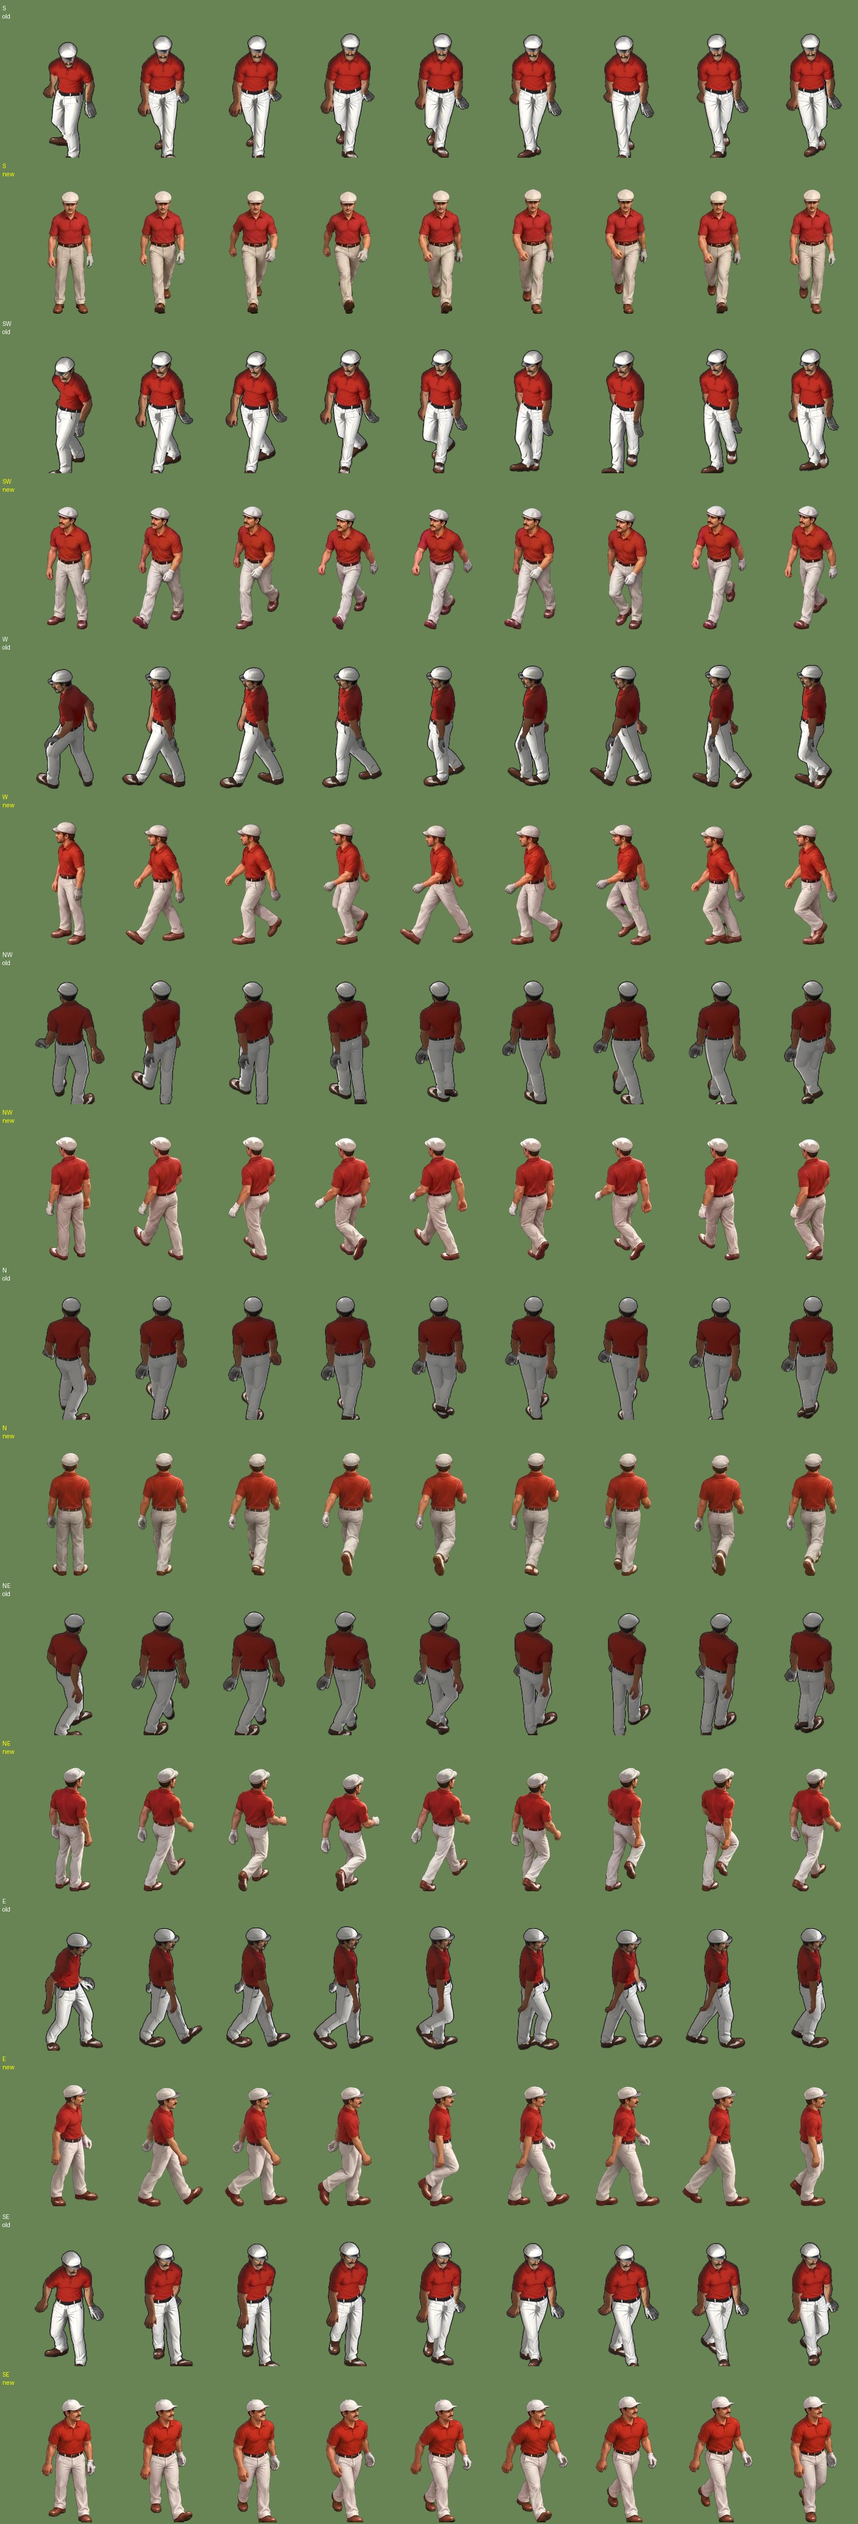
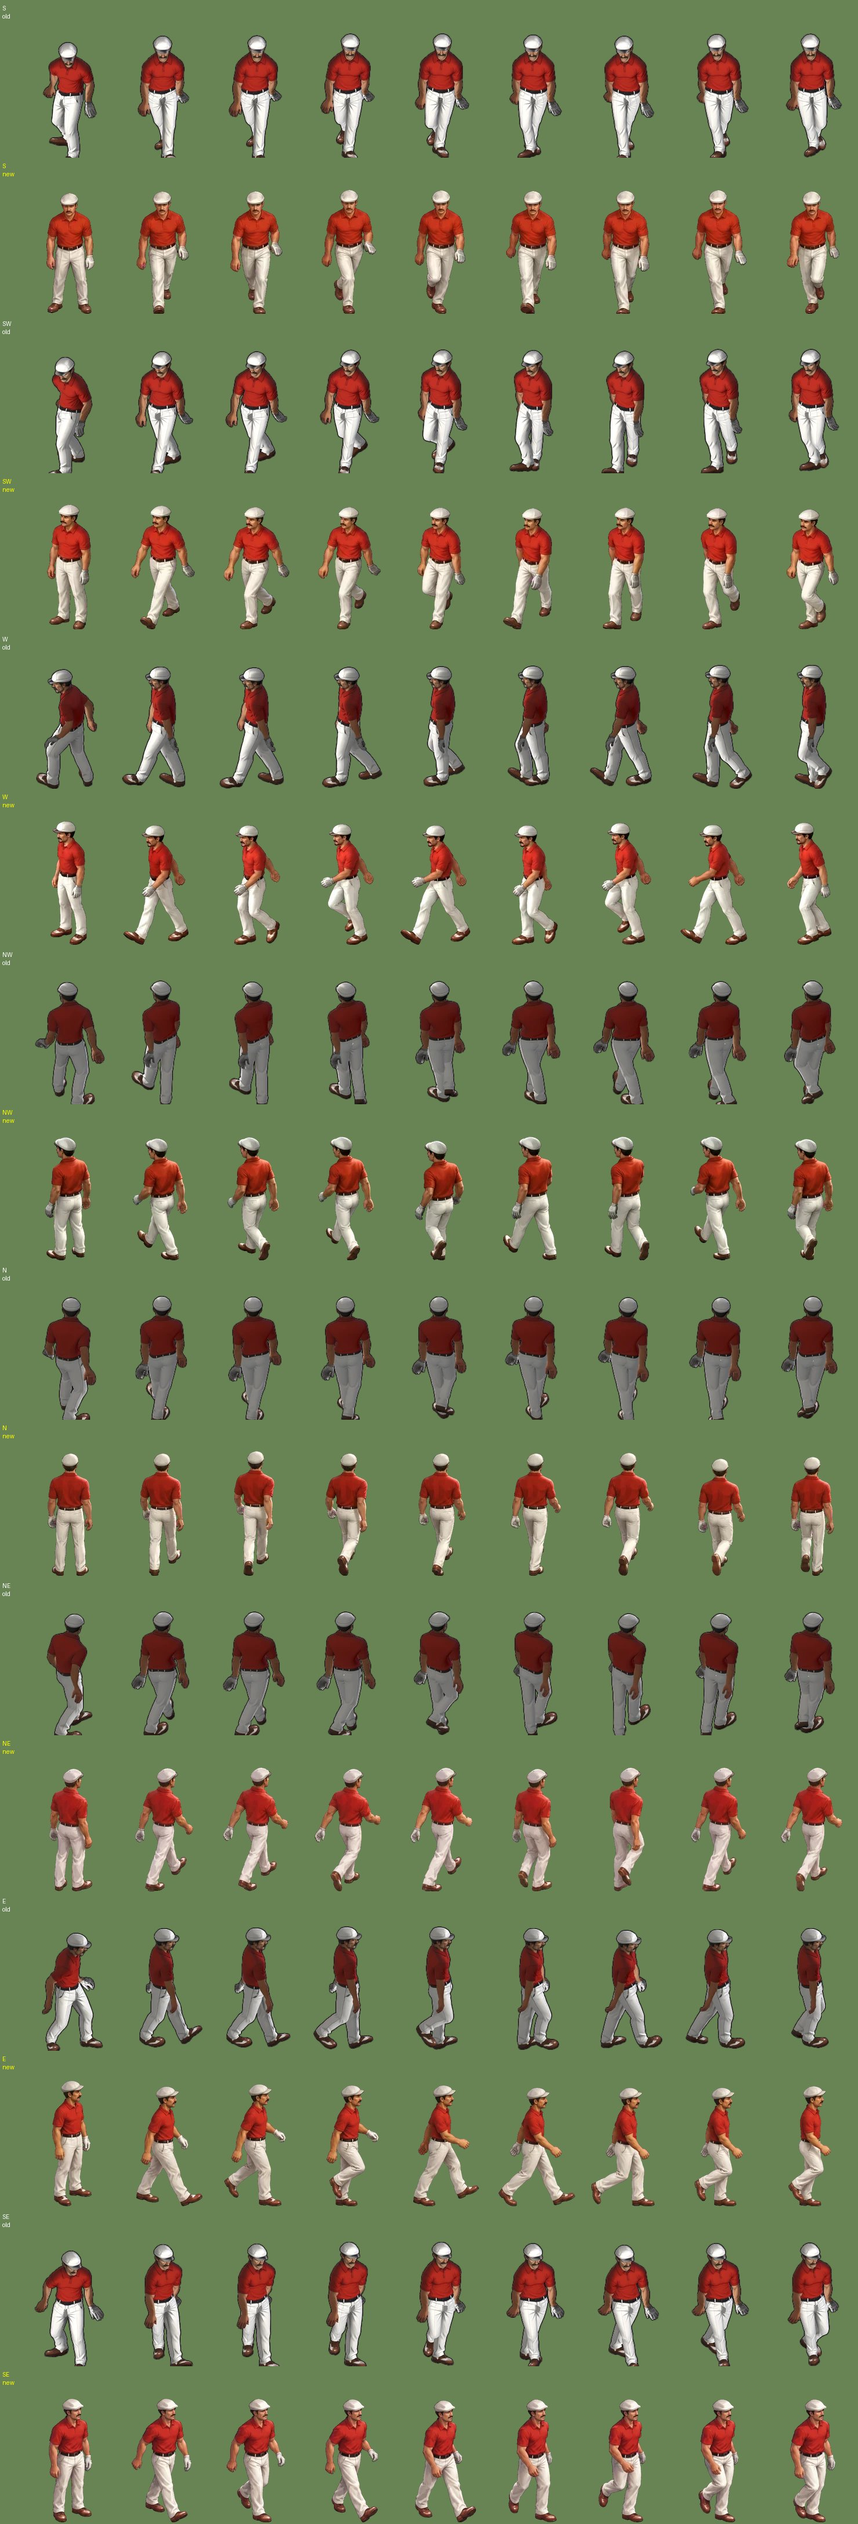
[#1235] golf_pro_m3 re-run: white trousers (batch 2's came out beige); golfer_pack.py/import_golfer.py: the clip sheets (golf_drive 4x3, golf_putt 4x2)
The re-run used golfer_pack.py --note (the trousers pure off-white). The clips: one landscape picture per golfer, clip and heading; the guide is
the old frames cropped to the swing's reach; the importer scales by the address/takeaway/impact heights and stands each frame on its old
frame's feet with its body over the old frame's, so the game's clip timing is unchanged; <clip>-old.webp/json kept.

diff --git a/scripts/assets/golfers/golfer_pack.py b/scripts/assets/golfers/golfer_pack.py
@@ -34,10 +34,13 @@ FACING = {
 # flat key colours for the background, picked per golfer as the one farthest from its clothes and skin
 KEYS = {'magenta': ((255, 0, 255), '#FF00FF'), 'green': ((0, 177, 64), '#00B140'), 'blue': ((40, 90, 220), '#285ADC')}
 GRID, CELL, K, FEET = 1024, 1024 // 3, 1.15, 315   # the guide: 3x3 cells of 341 px, the current frames at 1.15x, feet 315 px down a cell
+# the clips (#1235, the owner 2026-11-14: "the animations too"): each its own picture per heading, on a landscape 1536 x 1024 grid; the sheet
+# (standing + walk) keeps the 3x3 square above. The guide crops each clip to its reach at that heading (all frames' union), so the figure is big
+CLIPS = {'sheet': (3, 3, 1024, 1024), 'golf_drive': (4, 3, 1536, 1024), 'golf_putt': (4, 2, 1536, 1024)}
 
 PROMPT = """Use only the two pictures attached to this message (ignore earlier pictures in this chat). Create an image: a 3x3 sprite sheet of one golfer for a painted isometric golf game.
 
-Reference 1 shows who the golfer is (rough 3D renders from the front, the side and the back): keep his face, hair, skin, build and his exact clothes and colours ({outfit}). Mid-1980s golf clothes, no logos, no text.
+Reference 1 shows who the golfer is (him standing, from the front, the side and the back): keep his face, hair, skin, build and his exact clothes and colours ({outfit}). Mid-1980s golf clothes, no logos, no text.
 
 Reference 2 is the layout to paint over: nine cells, the golfer in each, all at the same heading: {facing}. Keep that heading, the camera, the size and the place of the figure in every cell exactly as reference 2 has them, and keep his feet on the same ground line in every cell. The renders' poses are only rough; paint these poses:
 - cell 1 (top left): standing still, relaxed and upright, weight on both feet a little apart, arms hanging loosely at his sides, head up looking ahead.
@@ -46,6 +49,43 @@ Reference 2 is the layout to paint over: nine cells, the golfer in each, all at 
 Style: a painterly isometric game sprite, soft brushwork, natural colours, clean readable shapes, no outline. Camera: orthographic, looking down at about 30 degrees, exactly as in reference 2, never mirrored. Light: one sun at the upper right of the picture: the parts of him facing the upper right lit, the far and lower parts gently shaded, no rim light, no glow.
 
 Background: one flat, even {keyname} colour ({key}) filling the whole picture and every gap (between the legs, between an arm and the body). No ground, no shadow on the ground, no grid lines, no borders, no text, no numbers."""
+
+CLIP_HEAD = """Use only the two pictures attached to this message (ignore earlier pictures in this chat). Create an image: a landscape {cols}x{rows} sprite sheet of one golfer for a painted isometric golf game.
+
+Reference 1 shows who the golfer is (him standing, from the front, the side and the back): keep his face, hair, skin, build and his exact clothes and colours ({outfit}). Mid-1980s golf clothes, no logos, no text.
+
+Reference 2 is the layout to paint over: {n} cells ({cols} across, {rows} down, read left to right then the next row), the golfer in each, all at the same heading: {facing}. Keep that heading, the camera, the size and the place of the figure in every cell exactly as reference 2 has them, his feet planted on the same spot of the same ground line in every cell (they do not move during the stroke), and keep each pose close to reference 2's (the renders are rough: paint them as a real golfer)."""
+CLIP_POSES = {
+    'golf_drive': """One full drive with a driver (a wooden-headed 1985 driver, a dark shaft, no ball, no tee), in order:
+1 address: knees flexed, back tilted, arms hanging, the club head on the ground behind where the ball would be;
+2 takeaway: the club swung back low, the shaft level with the ground;
+3 half-way back: the lead arm level, the club pointing up;
+4 near the top: the shoulders turned, the club over the back shoulder;
+5 the top: fully turned, the shaft about level behind his head;
+6 starting down: hips turning toward the target, the club still high;
+7 half-way down: the club level again, the wrists still cocked;
+8 impact: the club head at the ground where the ball was, arms straight;
+9 just after impact: both arms extended toward the target;
+10 follow-through: the club rising over the lead shoulder, the chest turned to the target;
+11 finish: high finish, belly facing the target, the back heel up on its toe;
+12 holding the finish, relaxed, the club over the shoulder.
+The swing is the same smooth motion through all twelve; the club is one straight shaft in every cell, never bent or doubled.""",
+    'golf_putt': """One putt with a putter (a 1985 blade putter, no ball), in order:
+1 address: bent over the ball spot, eyes down, the putter head on the ground, hands together;
+2 the putter starting back, low along the ground;
+3 the top of a short backstroke;
+4 the putter coming forward;
+5 impact: the putter head back at the ball spot;
+6 follow-through: the putter head forward past the ball spot, low;
+7 holding the follow-through, head still down;
+8 looking up after the ball, the putter still forward.
+Only the arms, shoulders and putter move; the body stays still, the feet planted.""",
+}
+CLIP_TAIL = """
+
+Style: a painterly isometric game sprite, soft brushwork, natural colours, clean readable shapes, no outline. Camera: orthographic, looking down at about 30 degrees, exactly as in reference 2, never mirrored. Light: one sun at the upper right of the picture: the parts of him facing the upper right lit, the far and lower parts gently shaded, no rim light, no glow.
+
+Background: one flat, even {keyname} colour ({key}) filling the whole picture and every gap (between the legs, between the arms and the club). No ground, no shadow on the ground, no grid lines, no borders, no text, no numbers. Each figure and its whole club inside its own cell, never crossing into the next."""
 
 CHECKS = """# Checks for {name} ({heading})
 - The same golfer as ref.png: face, hair, skin, shirt and trousers colours, shoes, glove. No logo, no text.
@@ -60,10 +100,12 @@ SHORT = {'S': 'the viewer', 'SW': 'the lower left', 'W': 'the left', 'NW': 'the 
          'NE': 'the upper right (from behind)', 'E': 'the right', 'SE': 'the lower right'}
 
 
-def frames(gid):
-    """the current sheet: frames[heading][column] as RGBA cells, and the sheet json"""
-    j = json.loads((ART / gid / 'sheet.json').read_text())
-    sheet = Image.open(ART / gid / 'sheet.webp').convert('RGBA'); fw, fh = j['frameWidth'], j['frameHeight']
+def frames(gid, clip='sheet'):
+    """the current sheet (or a clip sheet: golf_drive, golf_putt): frames[heading][column] as RGBA cells, and its json. A clip sheet that was
+    already imported reads its kept original (<clip>-old.webp), so a re-run is painted over the 3D renders, not over ChatGPT's last try"""
+    old = ART / gid / f'{clip}-old.webp'
+    j = json.loads((ART / gid / f'{clip}.json').read_text())
+    sheet = Image.open(old if clip != 'sheet' and old.exists() else ART / gid / f'{clip}.webp').convert('RGBA'); fw, fh = j['frameWidth'], j['frameHeight']
     out = {}
     for r, h in enumerate(j['directions']):
         out[h] = [sheet.crop((c * fw, r * fh, (c + 1) * fw, (r + 1) * fh)) for c in range(len(j['frames']))]
@@ -119,6 +161,25 @@ def guide_png(row, j, key, path):
     out.convert('RGB').save(path)
 
 
+def clip_guide_png(row, layout, key, path):
+    """a clip's guide: the frames of one heading in a cols x rows grid, cropped to their union (the reach of the swing) plus a margin and
+    scaled to fill a cell; returns the crop box and the scale (the importer does not need them: it measures)"""
+    cols, rows, W, H = layout; cw, ch = W // cols, H // rows
+    x0 = y0 = 10 ** 9; x1 = y1 = -1
+    for im in row:
+        bb = im.getbbox()
+        if bb: x0, y0, x1, y1 = min(x0, bb[0]), min(y0, bb[1]), max(x1, bb[2]), max(y1, bb[3])
+    m = 12; x0, y0, x1, y1 = max(0, x0 - m), max(0, y0 - m), x1 + m, y1 + m
+    k = min(cw / (x1 - x0), ch / (y1 - y0), 1.6)
+    out = Image.new('RGBA', (W, H), key + (255,))
+    for c, im in enumerate(row):
+        s = im.crop((x0, y0, x1, y1)); s = s.resize((round(s.width * k), round(s.height * k)), Image.LANCZOS)
+        cx, cy = (c % cols) * cw + (cw - s.width) // 2, (c // cols) * ch + (ch - s.height) // 2
+        out.alpha_composite(s, (cx, cy))
+    out.convert('RGB').save(path)
+    return (x0, y0, x1, y1), k
+
+
 def gender(text, gid):
     """the prompts say he/his/him; a woman golfer (golf_*_w*) gets she/her"""
     if '_w' not in gid: return text
@@ -131,6 +192,7 @@ def main():
     ap.add_argument('--golfer', nargs='*'); ap.add_argument('--heading', nargs='*', default=HEADINGS)
     ap.add_argument('--out', default='D:/AI/chatgpt-bridge/guides/golfers'); ap.add_argument('--bridge', default='D:/AI/chatgpt-bridge')
     ap.add_argument('--skip-done', action='store_true')
+    ap.add_argument('--clip', default='sheet', choices=list(CLIPS), help='sheet (standing + walk), golf_drive or golf_putt')
     ap.add_argument('--note', help='words added to the clothes line, e.g. "the trousers pure white, not beige or cream" (a re-run of a colour that drifted)')
     a = ap.parse_args()
     gids = a.golfer or sorted(d.name for d in ART.iterdir() if (d / 'sheet.json').exists())
@@ -138,15 +200,24 @@ def main():
     for gid in gids:
         cells, j = frames(gid)
         keyname = pick_key(cells); key, keyhex = KEYS[keyname]; wear = outfit(cells)
+        if a.clip != 'sheet':
+            ccells, cj = frames(gid, a.clip)
+            wear = 'exactly as in reference 1 (his painted standing pose: the clothes to copy)' + ('; ' + a.note if a.note else '')   # (the sampled colours misread shorts and skirts)
         if a.note: wear += '; ' + a.note
         (out / gid).mkdir(parents=True, exist_ok=True); ref = out / gid / 'ref.png'; ref_png(cells, ref)
         for h in a.heading:
-            name = f'{gid}~{h}'
+            name = f'{gid}~{h}' + ('' if a.clip == 'sheet' else f'~{a.clip}')
             if a.skip_done and (bridge / 'in' / f'{name}-golfers.png').exists(): continue
-            d = out / gid / h; d.mkdir(parents=True, exist_ok=True)
-            guide_png(cells[h], j, key, d / 'guide.png')
+            d = out / gid / h / ('' if a.clip == 'sheet' else a.clip); d.mkdir(parents=True, exist_ok=True)
             (d / 'ref.png').write_bytes(ref.read_bytes())
-            p = gender(PROMPT.format(outfit=wear, facing=FACING[h], keyname=keyname, key=keyhex), gid)
+            if a.clip == 'sheet':
+                guide_png(cells[h], j, key, d / 'guide.png')
+                p = gender(PROMPT.format(outfit=wear, facing=FACING[h], keyname=keyname, key=keyhex), gid)
+            else:
+                cols, rows, _, _ = CLIPS[a.clip]
+                clip_guide_png(ccells[h], CLIPS[a.clip], key, d / 'guide.png')
+                p = gender(CLIP_HEAD.format(cols=cols, rows=rows, n=cols * rows, outfit=wear, facing=FACING[h].replace('walking', 'his body facing')) + '\n\n' + CLIP_POSES[a.clip]
+                           + CLIP_TAIL.format(keyname=keyname, key=keyhex), gid)
             (d / 'PROMPT.md').write_text(p + '\n', encoding='utf-8')
             (d / 'CHECKS.md').write_text(CHECKS.format(name=name, heading=h, facing_short=SHORT[h], key=keyhex), encoding='utf-8')
             queue.append([name, (d / 'ref.png').as_posix(), (d / 'guide.png').as_posix(), p])

diff --git a/scripts/assets/golfers/import_golfer.py b/scripts/assets/golfers/import_golfer.py
@@ -20,7 +20,9 @@ from PIL import Image
 
 ROOT = Path(__file__).resolve().parents[3]
 ART = ROOT / 'art' / 'golfers'
-NAME = re.compile(r'^(golf_[a-z]+_[mw]\d+)~(S|SW|W|NW|N|NE|E|SE)-golfers\.png$')
+NAME = re.compile(r'^(golf_[a-z]+_[mw]\d+)~(S|SW|W|NW|N|NE|E|SE)(?:~(golf_drive|golf_putt))?-golfers\.png$')
+# the grid of each picture (golfer_pack.py CLIPS): columns, rows
+GRIDS = {'sheet': (3, 3), 'golf_drive': (4, 3), 'golf_putt': (4, 2)}
 GRASS = (104, 132, 84)
 
 
@@ -66,20 +68,22 @@ def components(mask):
         return lab, np.array(sizes)
 
 
-def figures(path, tol, soft):
-    """the nine figures of a 3x3 picture, in reading order: each an RGBA image cropped to its pieces"""
+def figures(path, tol, soft, grid=(3, 3)):
+    """the figures of a cols x rows picture (the sheet's 3x3, a clip's 4x3 or 4x2), in reading order: each an RGBA image cropped to its pieces
+    (a club's thin shaft may come apart from the hands: every piece goes to the cell its middle is in)"""
+    cols, rows = grid
     im = Image.open(path).convert('RGB'); rgb = np.asarray(im).astype(np.float32)
     fg, a, bg = key_out(rgb, tol, soft)
     h, w = a.shape
     lab, sizes = components(a > 0.5)
-    big = max(200, int(sizes[1:].max() * 0.004)) if len(sizes) > 1 else 200   # specks below this are noise
-    cells = [[] for _ in range(9)]
+    big = (max(200, int(sizes[1:].max() * 0.004)) if grid == (3, 3) else 60) if len(sizes) > 1 else 200   # specks below this are noise
+    cells = [[] for _ in range(cols * rows)]
     ys, xs = np.nonzero(lab)
     for k in range(1, len(sizes)):
         if sizes[k] < big: continue
         sel = lab == k; yy, xx = np.nonzero(sel)
         cy, cx = yy.mean(), xx.mean()
-        c = min(2, int(cy / (h / 3))) * 3 + min(2, int(cx / (w / 3)))
+        c = min(rows - 1, int(cy / (h / rows))) * cols + min(cols - 1, int(cx / (w / cols)))
         cells[c].append(k)
     out = []
     for c, ks in enumerate(cells):
@@ -108,9 +112,52 @@ def measure(im):
     return hgt, bot, cx
 
 
-def sheet_of(gid):
-    j = json.loads((ART / gid / 'sheet.json').read_text()); sheet = Image.open(ART / gid / 'sheet.webp').convert('RGBA')
+def sheet_of(gid, clip='sheet'):
+    j = json.loads((ART / gid / f'{clip}.json').read_text()); sheet = Image.open(ART / gid / f'{clip}.webp').convert('RGBA')
     return j, sheet
+
+
+def import_clip(path, gid, heading, clip, tol=60, soft=40, scale=None, dry=False, preview=None):
+    """a clip picture (golf_drive 4x3, golf_putt 4x2) into <clip>.webp's row: one scale for the row (the old and new address, takeaway
+    and impact frames' heights: the club at the ground in all three), then each frame stood on its old frame's lowest pixel with its body
+    over the old frame's body, so the game's timing and feet stay as they were. The first import keeps <clip>-old.webp/json"""
+    base = ART / gid
+    old_path = base / f'{clip}-old.webp'
+    j, sheet = sheet_of(gid, clip)
+    olds_sheet = Image.open(old_path).convert('RGBA') if old_path.exists() else sheet
+    fw, fh = j['frameWidth'], j['frameHeight']; n = len(j['frames'])
+    row = j['directions'].index(heading)
+    olds = [olds_sheet.crop((c * fw, row * fh, (c + 1) * fw, (row + 1) * fh)) for c in range(n)]
+    figs, bg = figures(path, tol, soft, GRIDS[clip])
+    figs = figs[:n]
+    probe = [0, 1, 7] if clip == 'golf_drive' else [0, 4]
+    k = scale or float(np.median([measure(olds[i])[0] / max(1, measure(figs[i])[0]) for i in probe]))
+    cells, over = [], []
+    for i, f in enumerate(figs):
+        s = f.resize((max(1, round(f.width * k)), max(1, round(f.height * k))), Image.LANCZOS)
+        _, bot, cx = measure(s); _, obot, ocx = measure(olds[i])
+        c = Image.new('RGBA', (fw, fh), (0, 0, 0, 0))
+        x, y = round(ocx - cx), round(min(obot, fh - 4) - bot)
+        c.paste(s, (x, y), s)
+        if x < 0 or y < 0 or x + s.width > fw or y + s.height > fh: over.append(i)
+        cells.append(c)
+    note = f'{path.name}: {gid} {heading} {clip} key {bg}, scale {k:.3f}' + (f', cut at the cell edge: frames {over}' if over else '')
+    print(note)
+    if preview:
+        pv = Image.new('RGBA', (fw * n, fh * 2), GRASS + (255,))
+        for c in range(n): pv.alpha_composite(olds[c], (c * fw, 0)); pv.alpha_composite(cells[c], (c * fw, fh))
+        pv.convert('RGB').save(preview)
+    if dry: return note
+    if not old_path.exists():
+        shutil.copyfile(base / f'{clip}.webp', old_path); shutil.copyfile(base / f'{clip}.json', base / f'{clip}-old.json')
+    for c in range(n):
+        sheet.paste(Image.new('RGBA', (fw, fh), (0, 0, 0, 0)), (c * fw, row * fh)); sheet.paste(cells[c], (c * fw, row * fh))
+    sheet.save(base / f'{clip}.webp', quality=90, alpha_quality=100, method=6)
+    ch = j.setdefault('chatgpt', {})
+    ch[heading] = {'picture': path.name, 'date': datetime.date.today().isoformat(), 'scale': round(k, 4)}
+    if len(ch) == 8: j['name'] = f'{gid} {clip} (ChatGPT painted)'
+    (base / f'{clip}.json').write_text(json.dumps(j, indent=2) + '\n')
+    return note
 
 
 def cell(sheet, j, row, col):
@@ -157,10 +204,10 @@ def import_one(path, gid, heading, tol=60, soft=40, scale=None, dry=False, previ
     return note
 
 
-def contact(gid, out):
-    """old (top) and new (below) rows of every heading on grass, and an animated walk of all eight headings (walk.gif next to out)"""
-    j, sheet = sheet_of(gid)
-    old = Image.open(ART / gid / 'sheet-old.webp').convert('RGBA') if (ART / gid / 'sheet-old.webp').exists() else sheet
+def contact(gid, out, clip='sheet'):
+    """old (top) and new (below) rows of every heading on grass, and an animated clip of all eight headings (<out>-walk.gif)"""
+    j, sheet = sheet_of(gid, clip)
+    old = Image.open(ART / gid / f'{clip}-old.webp').convert('RGBA') if (ART / gid / f'{clip}-old.webp').exists() else sheet
     fw, fh = j['frameWidth'], j['frameHeight']; n = len(j['frames'])
     pv = Image.new('RGBA', (fw * n + 40, fh * 16), GRASS + (255,))
     from PIL import ImageDraw
@@ -171,12 +218,14 @@ def contact(gid, out):
         d.text((4, 2 * r * fh + 8), h + '\nold', fill=(255, 255, 255)); d.text((4, (2 * r + 1) * fh + 8), h + '\nnew', fill=(255, 255, 0))
     pv.convert('RGB').save(out)
     gif = []
-    for f in list(range(1, n)) + [0] * 3:
+    for f in (list(range(1, n)) + [0] * 3 if clip == 'sheet' else list(range(n)) + [n - 1] * 4):
         g = Image.new('RGBA', (fw * 8, fh), GRASS + (255,))
         for r in range(8): g.alpha_composite(cell(sheet, j, r, f), (r * fw, 0))
         gif.append(g.convert('RGB'))
     gp = Path(out).with_name(Path(out).stem + '-walk.gif')
-    gif[0].save(gp, save_all=True, append_images=gif[1:], duration=[int(1000 / j.get('walkFps', 6))] * (n - 1) + [500] * 3, loop=0)
+    if clip == 'sheet': dur = [int(1000 / j.get('walkFps', 6))] * (n - 1) + [500] * 3
+    else: t = j['times']; dur = [max(40, int(1000 * (t[i + 1] - t[i]))) for i in range(n - 1)] + [400] + [300] * 4
+    gif[0].save(gp, save_all=True, append_images=gif[1:], duration=dur, loop=0)
     print(out, gp)
 
 
@@ -186,18 +235,22 @@ def main():
     ap.add_argument('--tol', type=float, default=60); ap.add_argument('--soft', type=float, default=40); ap.add_argument('--scale', type=float)
     ap.add_argument('--dry-run', action='store_true'); ap.add_argument('--preview')
     ap.add_argument('--all', action='store_true'); ap.add_argument('--in', dest='inp', default='D:/AI/chatgpt-bridge/in')
-    ap.add_argument('--contact'); ap.add_argument('--out')
+    ap.add_argument('--contact'); ap.add_argument('--out'); ap.add_argument('--clip', default='sheet', choices=list(GRIDS))
     a = ap.parse_args()
-    if a.contact: return contact(a.contact, a.out or f'{a.contact}-contact.png')
+    if a.contact: return contact(a.contact, a.out or f'{a.contact}-{a.clip}-contact.png', a.clip)
     if a.all:
         for p in sorted(Path(a.inp).glob('golf_*~*-golfers.png'), key=lambda p: p.stat().st_mtime):
             m = NAME.match(p.name)
-            if m and (not a.golfer or m.group(1) == a.golfer): import_one(p, m.group(1), m.group(2), a.tol, a.soft, a.scale, a.dry_run)
+            if m and (not a.golfer or m.group(1) == a.golfer) and (m.group(3) or 'sheet') == a.clip:
+                if a.clip == 'sheet': import_one(p, m.group(1), m.group(2), a.tol, a.soft, a.scale, a.dry_run)
+                else: import_clip(p, m.group(1), m.group(2), a.clip, a.tol, a.soft, a.scale, a.dry_run)
         return
     p = Path(a.picture); m = NAME.match(p.name)
     gid, h = a.golfer or (m and m.group(1)), a.heading or (m and m.group(2))
     if not gid or not h: raise SystemExit('name the golfer and heading (--golfer, --heading) or use <id>~<H>-golfers.png')
-    import_one(p, gid, h, a.tol, a.soft, a.scale, a.dry_run, a.preview)
+    clip = (m and m.group(3)) or a.clip
+    if clip == 'sheet': import_one(p, gid, h, a.tol, a.soft, a.scale, a.dry_run, a.preview)
+    else: import_clip(p, gid, h, clip, a.tol, a.soft, a.scale, a.dry_run, a.preview)
 
 
 if __name__ == '__main__':
